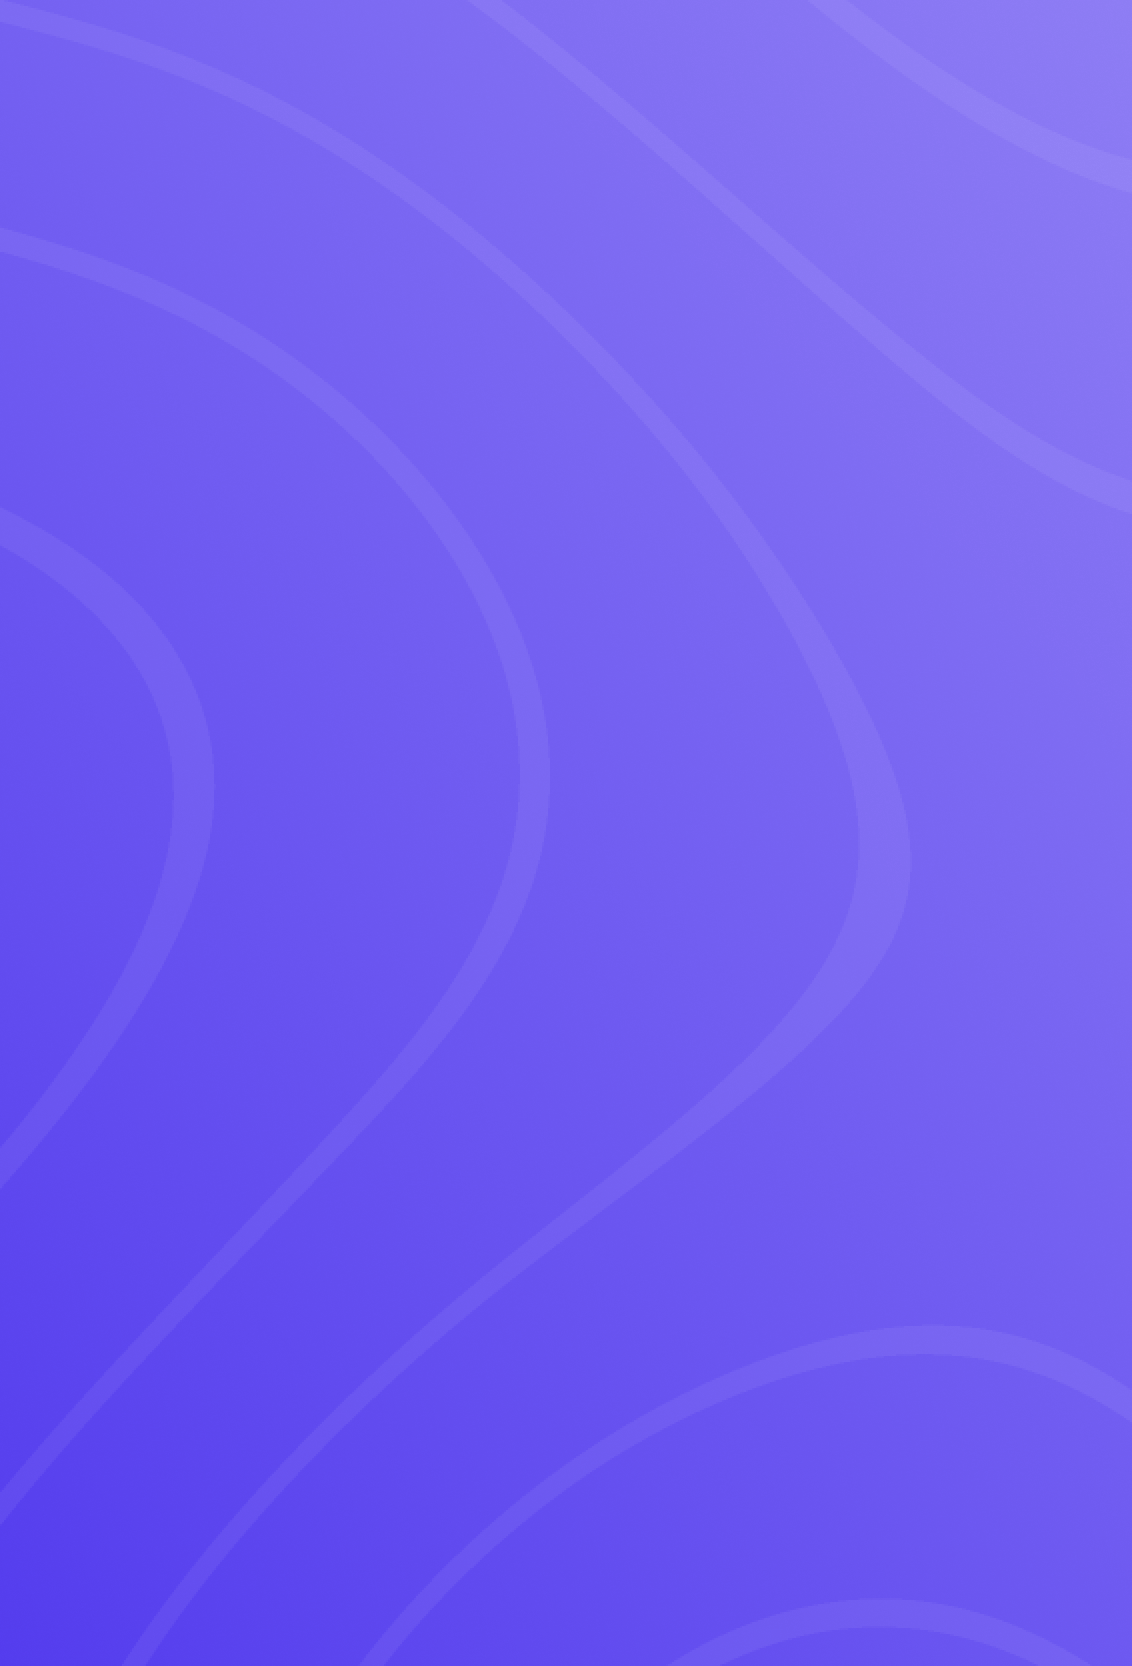
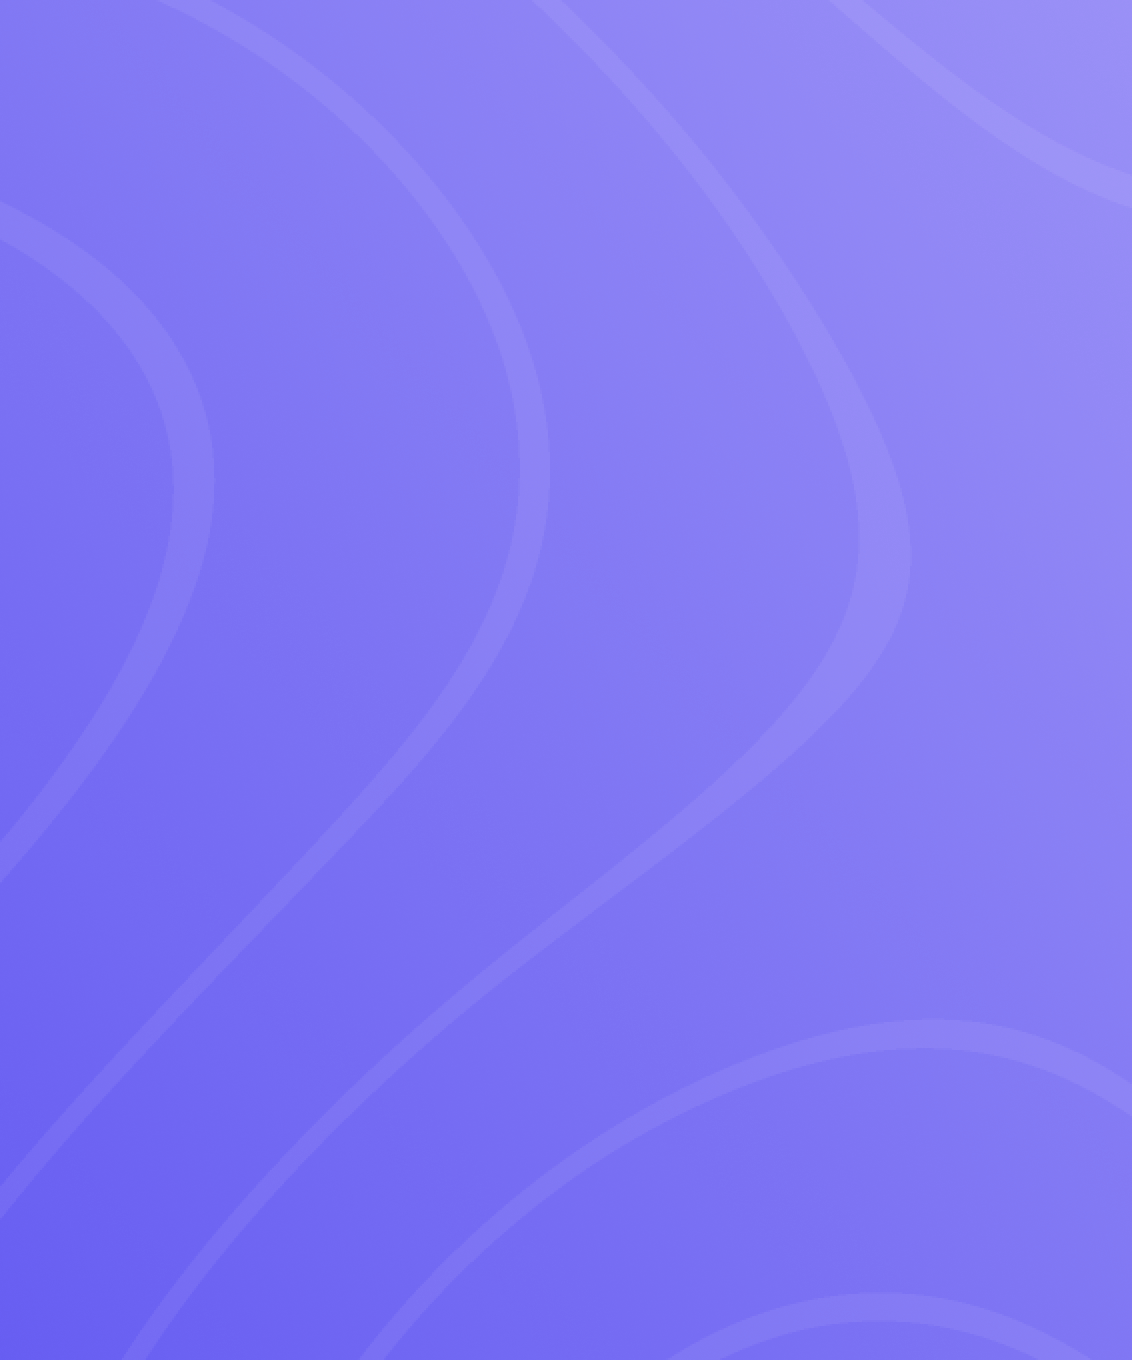
Add files via upload
Updated display ratio

diff --git a/index.html b/index.html
@@ -9,8 +9,8 @@
 	<meta name="robots" content="index, follow">
     <link rel="shortcut icon" type="image/jpeg" href="favicon.jpeg">
     
-	<link rel="stylesheet" type="text/css" href="./css/bootstrap.min.css?5765">
-	<link rel="stylesheet" type="text/css" href="style.css?7777">
+	<link rel="stylesheet" type="text/css" href="./css/bootstrap.min.css?7516">
+	<link rel="stylesheet" type="text/css" href="style.css?6415">
 	<link href='https://fonts.googleapis.com/css?family=Poppins:100,500,700,40&display=swap&subset=latin,latin-ext' rel='stylesheet' type='text/css'>
     <title>Login</title>
 
@@ -34,11 +34,11 @@
 <!-- bloc-0 -->
 <div class="bloc l-bloc full-width-bloc" id="bloc-0">
 	<div class="container bloc-no-padding">
-		<div class="row g-0 ">
+		<div class="row g-0">
 			<div class="order-md-0 col-md-12 col-lg-6 order-lg-1 offset-lg-1">
-				<picture><source type="image/webp" srcset="img/lazyload-ph.png" data-srcset="img/log_in_bg.webp"><img src="img/lazyload-ph.png" data-src="img/log_in_bg.png" class="img-fluid mx-auto d-lg-block d-md-none d-sm-block d-none lazyload" alt="log_in_bg" width="1120" height="1648"></picture>
+				<picture><source type="image/webp" srcset="img/lazyload-ph.png" data-srcset="img/log_in_bg.webp"><img src="img/lazyload-ph.png" data-src="img/log_in_bg.png" class="img-fluid mx-auto d-lg-block d-md-none d-sm-block d-none lazyload " alt="log_in_bg" width="1120" height="1346"></picture>
 			</div>
-			<div class="align-self-center offset-md-1 col-md-10 col-lg-4 col-sm-10 offset-sm-1 col-10 offset-1">
+			<div class="offset-md-1 col-md-10 col-sm-10 offset-sm-1 col-10 offset-1 text-lg-center align-self-center offset-lg-1 col-lg-4">
 				<h2 class="mg-md h2-style text-lg-center">
 					<strong>LOGIN</strong>
 				</h2>
@@ -71,8 +71,8 @@
 
 
 <!-- Additional JS -->
-<script src="./js/bootstrap.bundle.min.js?4916"></script>
-<script src="./js/blocs.min.js?1536"></script>
+<script src="./js/bootstrap.bundle.min.js?1248"></script>
+<script src="./js/blocs.min.js?3836"></script>
 <script src="./js/lazysizes.min.js" defer></script><!-- Additional JS END -->
 
 

diff --git a/homepage/index.html b/homepage/index.html
@@ -9,8 +9,8 @@
 	<meta name="robots" content="index, follow">
     <link rel="shortcut icon" type="image/jpeg" href="../favicon.jpeg">
     
-	<link rel="stylesheet" type="text/css" href="../css/bootstrap.min.css?5765">
-	<link rel="stylesheet" type="text/css" href="../style.css?7777">
+	<link rel="stylesheet" type="text/css" href="../css/bootstrap.min.css?7516">
+	<link rel="stylesheet" type="text/css" href="../style.css?6415">
 	<link href='https://fonts.googleapis.com/css?family=Poppins:100,500,700,40&display=swap&subset=latin,latin-ext' rel='stylesheet' type='text/css'>
     <title>Homepage</title>
 
@@ -42,8 +42,8 @@
 
 
 <!-- Additional JS -->
-<script src="../js/bootstrap.bundle.min.js?4916"></script>
-<script src="../js/blocs.min.js?1536"></script>
+<script src="../js/bootstrap.bundle.min.js?1248"></script>
+<script src="../js/blocs.min.js?3836"></script>
 <script src="../js/lazysizes.min.js" defer></script><!-- Additional JS END -->
 
 
